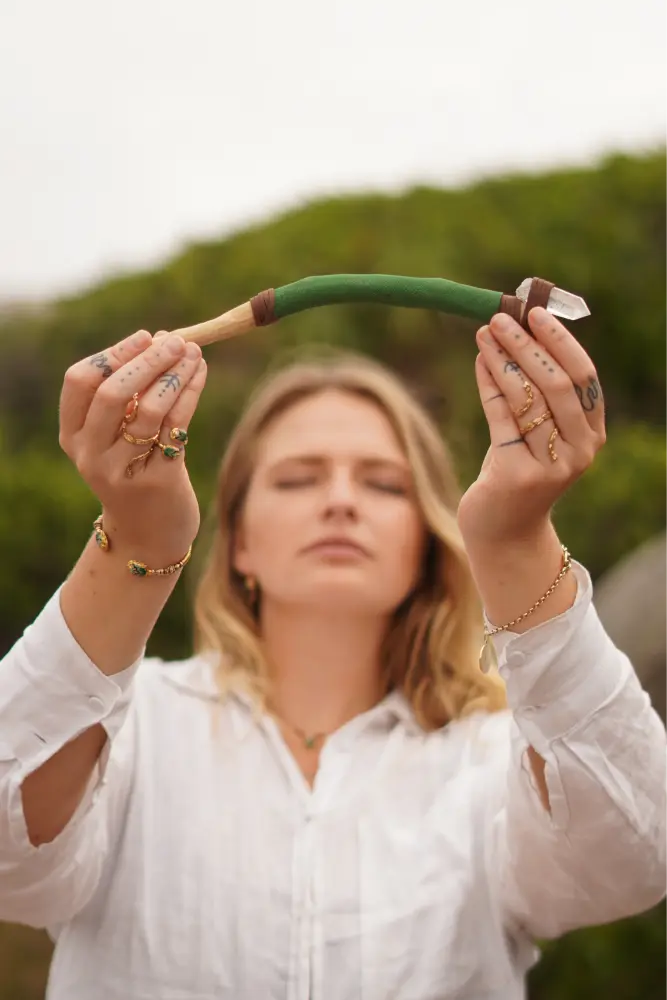
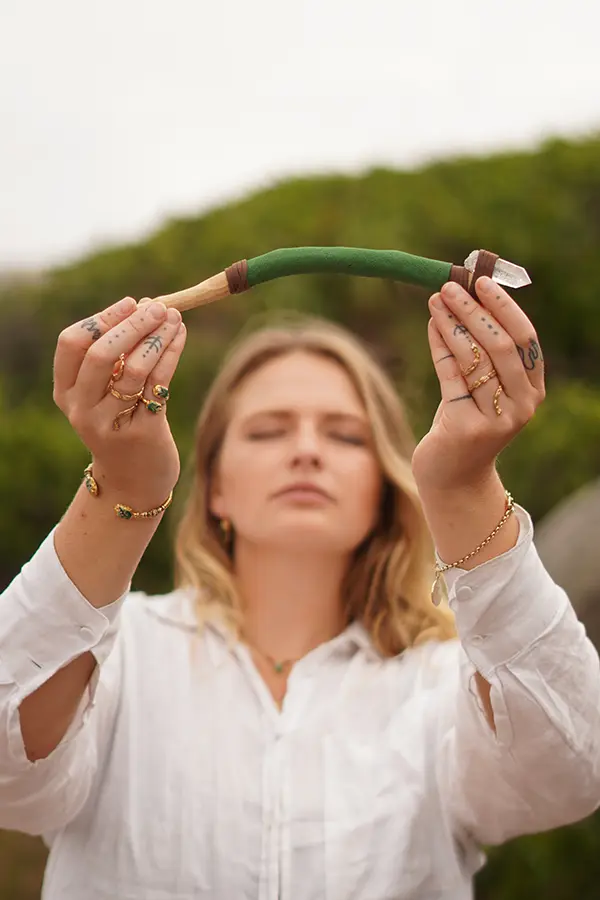
new portrait images

diff --git a/index.html b/index.html
@@ -334,8 +334,8 @@
             class="portrait-image"
             src="/media/home-carousel/carousel-1.webp"
             alt="Jessica Réa Portrait"
-            width="288"
-            height="433"
+            width="300"
+            height="450"
             decoding="async"
             loading="lazy"
           />
@@ -343,8 +343,8 @@
             class="portrait-image"
             src="/media/home-carousel/carousel-2.webp"
             alt="Jessica Réa Portrait"
-            width="288"
-            height="433"
+            width="300"
+            height="450"
             decoding="async"
             loading="lazy"
           />
@@ -352,8 +352,8 @@
             class="portrait-image"
             src="/media/home-carousel/carousel-3.webp"
             alt="Jessica Réa Portrait"
-            width="288"
-            height="433"
+            width="300"
+            height="450"
             decoding="async"
             loading="lazy"
           />
@@ -361,8 +361,8 @@
             class="portrait-image"
             src="/media/home-carousel/carousel-4.webp"
             alt="Jessica Réa Portrait"
-            width="288"
-            height="433"
+            width="300"
+            height="450"
             decoding="async"
             loading="lazy"
           />
